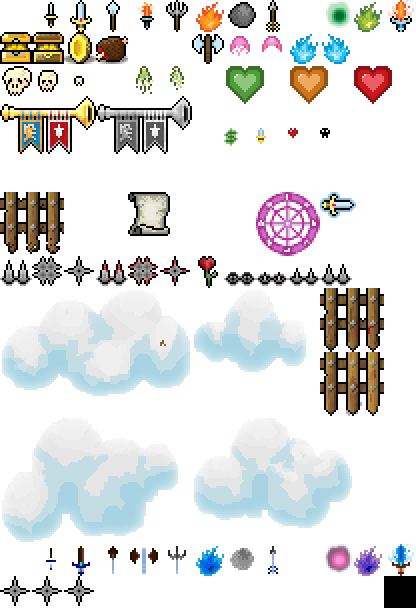
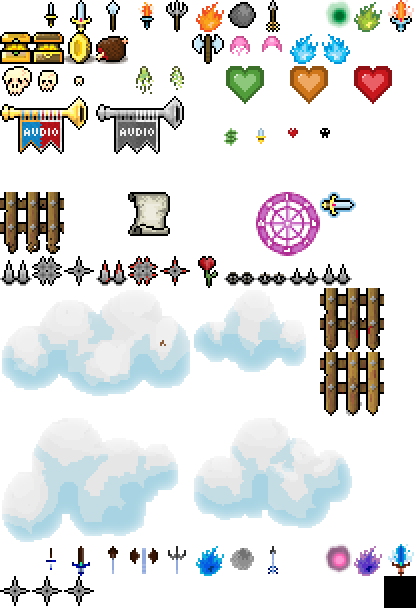
making mute button more usable and removing old code

Changed region(s): [[0.2812, 0.1562, 0.4688, 0.25], [0.0625, 0.1562, 0.25, 0.25]]

diff --git a/htdocs/js/engine.js b/htdocs/js/engine.js
@@ -2838,21 +2838,6 @@ proto.objectAttack = function (object, v) {
 			var o = this.objects[id];
 			o.position.add(horde.Vector2.fromHeading(h + (Math.PI / 2)).scale(16));
 			o.position.add(vh.clone().scale(16));
-
-		/*
-			var rv = this.targetReticle.position.clone();
-			var len = (Math.PI * 2);
-			var step = (len / 20);
-			for (var h = 0; h < len; h += step) {
-				var o = horde.makeObject("h_fireball");
-				o.position.x = rv.x - 16;
-				o.position.y = rv.y - 16;
-				o.setDirection(horde.Vector2.fromHeading(h));
-				o.ownerId = object.id;
-				o.team = object.team;
-				this.addObject(o);
-			}
-			*/
 			break;
 
 		case "e_ring_fire":
